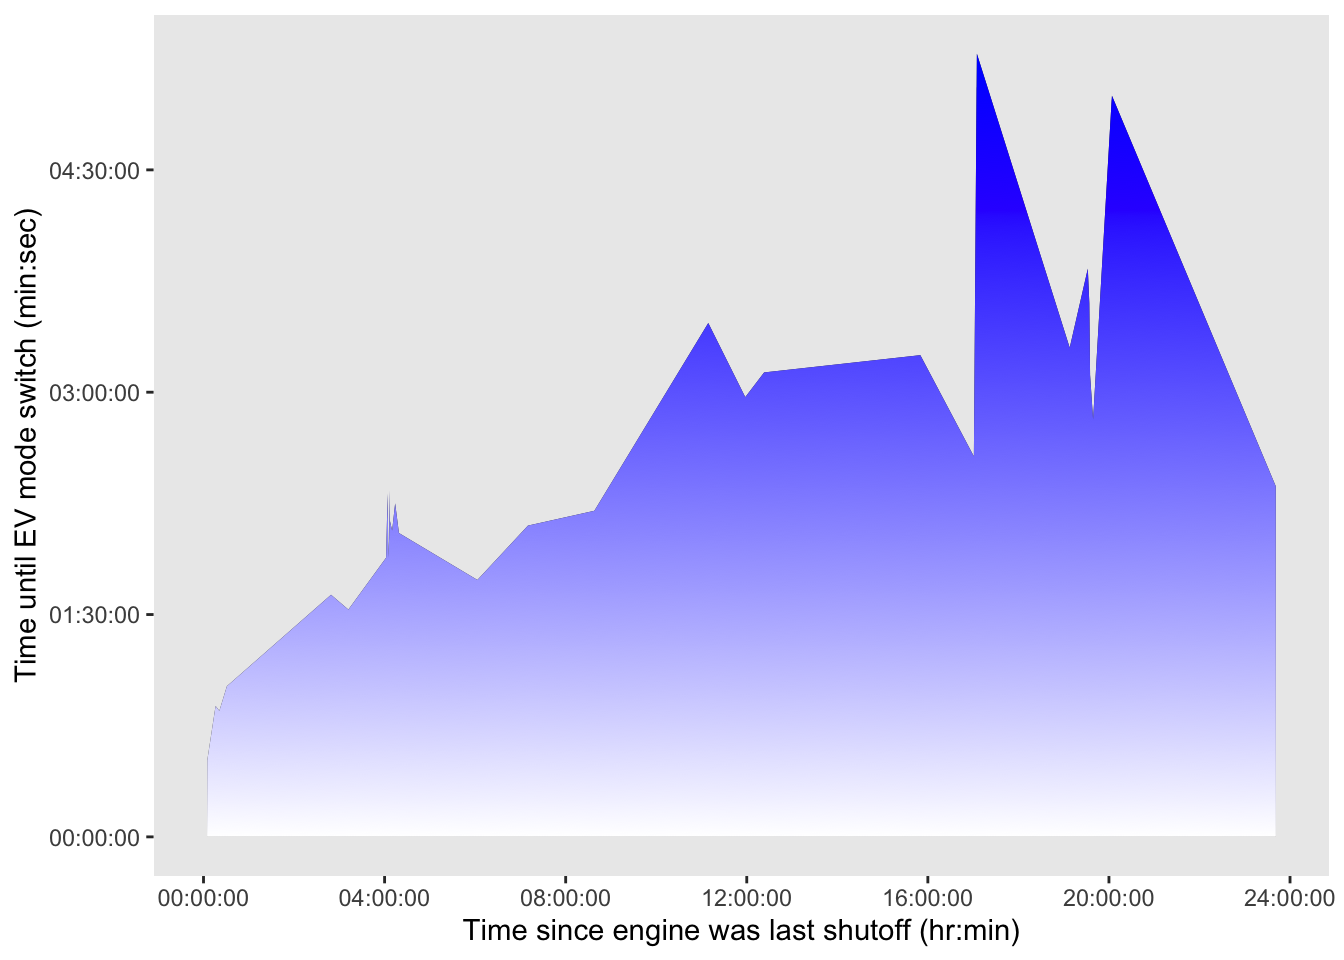
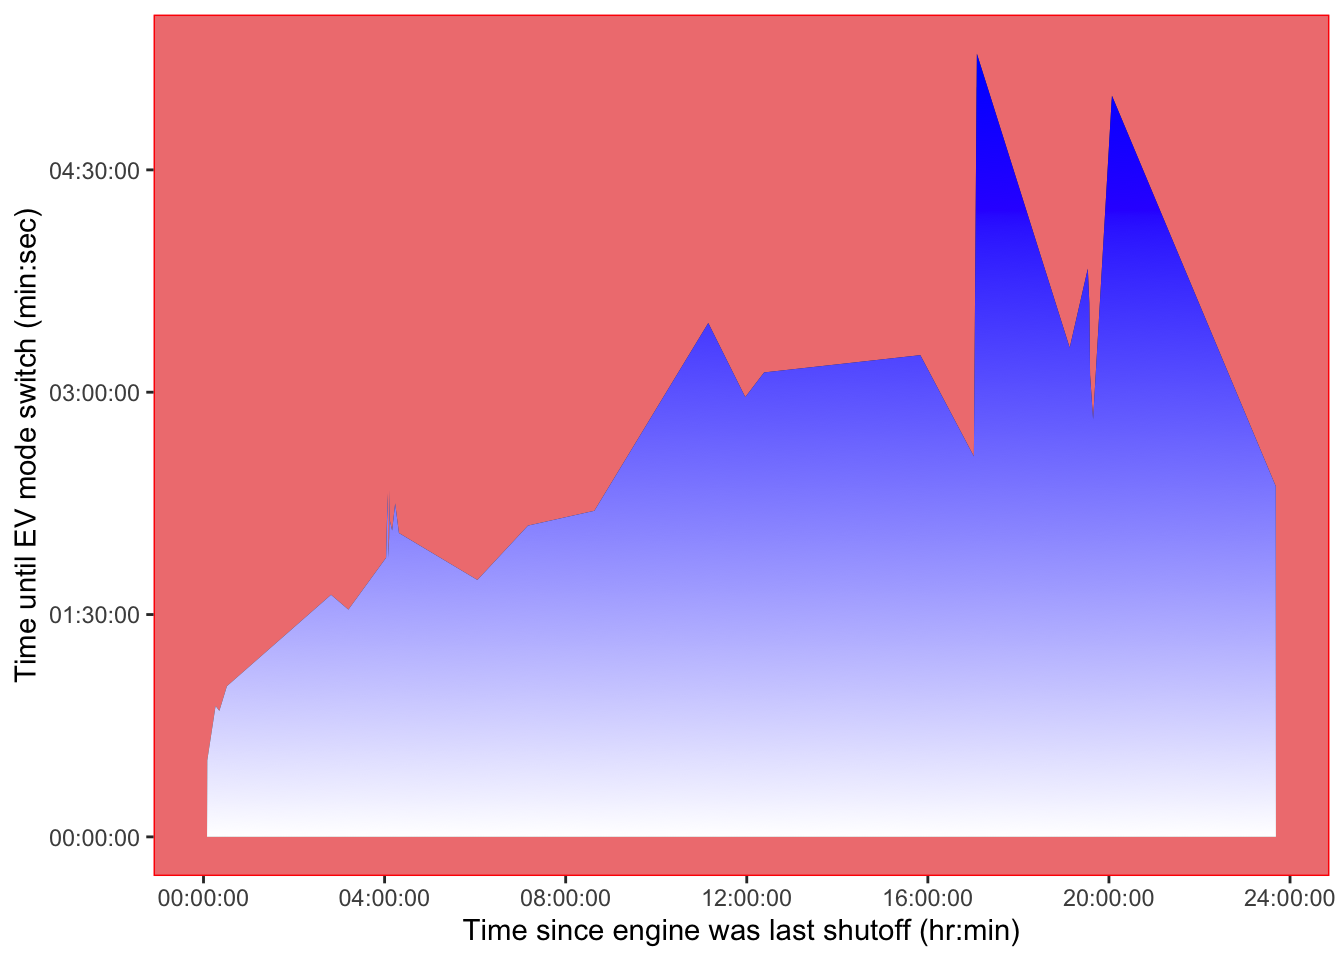
adding statistical critique table

diff --git a/ENVS-193DS_homework-03.html b/ENVS-193DS_homework-03.html
@@ -200,7 +200,7 @@ pre > code.sourceCode > span > a:first-child::before { text-decoration: underlin
 <span id="cb3-7"><a href="#cb3-7" aria-hidden="true" tabindex="-1"></a></span>
 <span id="cb3-8"><a href="#cb3-8" aria-hidden="true" tabindex="-1"></a>ev_table</span></code><button title="Copy to Clipboard" class="code-copy-button"><i class="bi"></i></button></pre></div>
 <div class="cell-output-display">
-<div class="tabwid"><style>.cl-dbd45cb2{}.cl-dbd0f0e0{font-family:'Helvetica';font-size:11pt;font-weight:normal;font-style:normal;text-decoration:none;color:rgba(0, 0, 0, 1.00);background-color:transparent;}.cl-dbd25b9c{margin:0;text-align:left;border-bottom: 0 solid rgba(0, 0, 0, 1.00);border-top: 0 solid rgba(0, 0, 0, 1.00);border-left: 0 solid rgba(0, 0, 0, 1.00);border-right: 0 solid rgba(0, 0, 0, 1.00);padding-bottom:5pt;padding-top:5pt;padding-left:5pt;padding-right:5pt;line-height: 1;background-color:transparent;}.cl-dbd25ba6{margin:0;text-align:right;border-bottom: 0 solid rgba(0, 0, 0, 1.00);border-top: 0 solid rgba(0, 0, 0, 1.00);border-left: 0 solid rgba(0, 0, 0, 1.00);border-right: 0 solid rgba(0, 0, 0, 1.00);padding-bottom:5pt;padding-top:5pt;padding-left:5pt;padding-right:5pt;line-height: 1;background-color:transparent;}.cl-dbd26952{width:0.75in;background-color:transparent;vertical-align: middle;border-bottom: 1.5pt solid rgba(102, 102, 102, 1.00);border-top: 1.5pt solid rgba(102, 102, 102, 1.00);border-left: 0 solid rgba(0, 0, 0, 1.00);border-right: 0 solid rgba(0, 0, 0, 1.00);margin-bottom:0;margin-top:0;margin-left:0;margin-right:0;}.cl-dbd2695c{width:0.75in;background-color:transparent;vertical-align: middle;border-bottom: 1.5pt solid rgba(102, 102, 102, 1.00);border-top: 1.5pt solid rgba(102, 102, 102, 1.00);border-left: 0 solid rgba(0, 0, 0, 1.00);border-right: 0 solid rgba(0, 0, 0, 1.00);margin-bottom:0;margin-top:0;margin-left:0;margin-right:0;}.cl-dbd2695d{width:0.75in;background-color:transparent;vertical-align: middle;border-bottom: 0 solid rgba(0, 0, 0, 1.00);border-top: 0 solid rgba(0, 0, 0, 1.00);border-left: 0 solid rgba(0, 0, 0, 1.00);border-right: 0 solid rgba(0, 0, 0, 1.00);margin-bottom:0;margin-top:0;margin-left:0;margin-right:0;}.cl-dbd2695e{width:0.75in;background-color:transparent;vertical-align: middle;border-bottom: 0 solid rgba(0, 0, 0, 1.00);border-top: 0 solid rgba(0, 0, 0, 1.00);border-left: 0 solid rgba(0, 0, 0, 1.00);border-right: 0 solid rgba(0, 0, 0, 1.00);margin-bottom:0;margin-top:0;margin-left:0;margin-right:0;}.cl-dbd26966{width:0.75in;background-color:transparent;vertical-align: middle;border-bottom: 1.5pt solid rgba(102, 102, 102, 1.00);border-top: 0 solid rgba(0, 0, 0, 1.00);border-left: 0 solid rgba(0, 0, 0, 1.00);border-right: 0 solid rgba(0, 0, 0, 1.00);margin-bottom:0;margin-top:0;margin-left:0;margin-right:0;}.cl-dbd26967{width:0.75in;background-color:transparent;vertical-align: middle;border-bottom: 1.5pt solid rgba(102, 102, 102, 1.00);border-top: 0 solid rgba(0, 0, 0, 1.00);border-left: 0 solid rgba(0, 0, 0, 1.00);border-right: 0 solid rgba(0, 0, 0, 1.00);margin-bottom:0;margin-top:0;margin-left:0;margin-right:0;}</style><table data-quarto-disable-processing="true" class="cl-dbd45cb2"><thead><tr style="overflow-wrap:break-word;"><th class="cl-dbd26952"><p class="cl-dbd25b9c"><span class="cl-dbd0f0e0">Presence_of_the_Sun</span></p></th><th class="cl-dbd2695c"><p class="cl-dbd25ba6"><span class="cl-dbd0f0e0">EV_switch_time</span></p></th></tr></thead><tbody><tr style="overflow-wrap:break-word;"><td class="cl-dbd2695d"><p class="cl-dbd25b9c"><span class="cl-dbd0f0e0">Yes</span></p></td><td class="cl-dbd2695e"><p class="cl-dbd25ba6"><span class="cl-dbd0f0e0">02:06:00</span></p></td></tr><tr style="overflow-wrap:break-word;"><td class="cl-dbd2695d"><p class="cl-dbd25b9c"><span class="cl-dbd0f0e0">No</span></p></td><td class="cl-dbd2695e"><p class="cl-dbd25ba6"><span class="cl-dbd0f0e0">03:08:00</span></p></td></tr><tr style="overflow-wrap:break-word;"><td class="cl-dbd2695d"><p class="cl-dbd25b9c"><span class="cl-dbd0f0e0">Yes</span></p></td><td class="cl-dbd2695e"><p class="cl-dbd25ba6"><span class="cl-dbd0f0e0">02:20:00</span></p></td></tr><tr style="overflow-wrap:break-word;"><td class="cl-dbd2695d"><p class="cl-dbd25b9c"><span class="cl-dbd0f0e0">Yes</span></p></td><td class="cl-dbd2695e"><p class="cl-dbd25ba6"><span class="cl-dbd0f0e0">01:01:00</span></p></td></tr><tr style="overflow-wrap:break-word;"><td class="cl-dbd2695d"><p class="cl-dbd25b9c"><span class="cl-dbd0f0e0">Yes</span></p></td><td class="cl-dbd2695e"><p class="cl-dbd25ba6"><span class="cl-dbd0f0e0">00:31:00</span></p></td></tr><tr style="overflow-wrap:break-word;"><td class="cl-dbd2695d"><p class="cl-dbd25b9c"><span class="cl-dbd0f0e0">No</span></p></td><td class="cl-dbd2695e"><p class="cl-dbd25ba6"><span class="cl-dbd0f0e0">03:15:00</span></p></td></tr><tr style="overflow-wrap:break-word;"><td class="cl-dbd2695d"><p class="cl-dbd25b9c"><span class="cl-dbd0f0e0">Yes</span></p></td><td class="cl-dbd2695e"><p class="cl-dbd25ba6"><span class="cl-dbd0f0e0">02:19:00</span></p></td></tr><tr style="overflow-wrap:break-word;"><td class="cl-dbd2695d"><p class="cl-dbd25b9c"><span class="cl-dbd0f0e0">No</span></p></td><td class="cl-dbd2695e"><p class="cl-dbd25ba6"><span class="cl-dbd0f0e0">03:50:00</span></p></td></tr><tr style="overflow-wrap:break-word;"><td class="cl-dbd2695d"><p class="cl-dbd25b9c"><span class="cl-dbd0f0e0">Yes</span></p></td><td class="cl-dbd2695e"><p class="cl-dbd25ba6"><span class="cl-dbd0f0e0">02:04:00</span></p></td></tr><tr style="overflow-wrap:break-word;"><td class="cl-dbd2695d"><p class="cl-dbd25b9c"><span class="cl-dbd0f0e0">Yes</span></p></td><td class="cl-dbd2695e"><p class="cl-dbd25ba6"><span class="cl-dbd0f0e0">01:44:00</span></p></td></tr><tr style="overflow-wrap:break-word;"><td class="cl-dbd2695d"><p class="cl-dbd25b9c"><span class="cl-dbd0f0e0">No</span></p></td><td class="cl-dbd2695e"><p class="cl-dbd25ba6"><span class="cl-dbd0f0e0">03:28:00</span></p></td></tr><tr style="overflow-wrap:break-word;"><td class="cl-dbd2695d"><p class="cl-dbd25b9c"><span class="cl-dbd0f0e0">No</span></p></td><td class="cl-dbd2695e"><p class="cl-dbd25ba6"><span class="cl-dbd0f0e0">05:17:00</span></p></td></tr><tr style="overflow-wrap:break-word;"><td class="cl-dbd2695d"><p class="cl-dbd25b9c"><span class="cl-dbd0f0e0">Yes</span></p></td><td class="cl-dbd2695e"><p class="cl-dbd25ba6"><span class="cl-dbd0f0e0">02:08:00</span></p></td></tr><tr style="overflow-wrap:break-word;"><td class="cl-dbd2695d"><p class="cl-dbd25b9c"><span class="cl-dbd0f0e0">Yes</span></p></td><td class="cl-dbd2695e"><p class="cl-dbd25ba6"><span class="cl-dbd0f0e0">01:32:00</span></p></td></tr><tr style="overflow-wrap:break-word;"><td class="cl-dbd2695d"><p class="cl-dbd25b9c"><span class="cl-dbd0f0e0">No</span></p></td><td class="cl-dbd2695e"><p class="cl-dbd25ba6"><span class="cl-dbd0f0e0">02:58:00</span></p></td></tr><tr style="overflow-wrap:break-word;"><td class="cl-dbd2695d"><p class="cl-dbd25b9c"><span class="cl-dbd0f0e0">No</span></p></td><td class="cl-dbd2695e"><p class="cl-dbd25ba6"><span class="cl-dbd0f0e0">02:12:00</span></p></td></tr><tr style="overflow-wrap:break-word;"><td class="cl-dbd2695d"><p class="cl-dbd25b9c"><span class="cl-dbd0f0e0">Yes</span></p></td><td class="cl-dbd2695e"><p class="cl-dbd25ba6"><span class="cl-dbd0f0e0">01:53:00</span></p></td></tr><tr style="overflow-wrap:break-word;"><td class="cl-dbd2695d"><p class="cl-dbd25b9c"><span class="cl-dbd0f0e0">No</span></p></td><td class="cl-dbd2695e"><p class="cl-dbd25ba6"><span class="cl-dbd0f0e0">03:36:00</span></p></td></tr><tr style="overflow-wrap:break-word;"><td class="cl-dbd2695d"><p class="cl-dbd25b9c"><span class="cl-dbd0f0e0">No</span></p></td><td class="cl-dbd2695e"><p class="cl-dbd25ba6"><span class="cl-dbd0f0e0">03:18:00</span></p></td></tr><tr style="overflow-wrap:break-word;"><td class="cl-dbd2695d"><p class="cl-dbd25b9c"><span class="cl-dbd0f0e0">Yes</span></p></td><td class="cl-dbd2695e"><p class="cl-dbd25ba6"><span class="cl-dbd0f0e0">01:53:00</span></p></td></tr><tr style="overflow-wrap:break-word;"><td class="cl-dbd2695d"><p class="cl-dbd25b9c"><span class="cl-dbd0f0e0">No</span></p></td><td class="cl-dbd2695e"><p class="cl-dbd25ba6"><span class="cl-dbd0f0e0">03:07:00</span></p></td></tr><tr style="overflow-wrap:break-word;"><td class="cl-dbd2695d"><p class="cl-dbd25b9c"><span class="cl-dbd0f0e0">Yes</span></p></td><td class="cl-dbd2695e"><p class="cl-dbd25ba6"><span class="cl-dbd0f0e0">02:01:00</span></p></td></tr><tr style="overflow-wrap:break-word;"><td class="cl-dbd2695d"><p class="cl-dbd25b9c"><span class="cl-dbd0f0e0">Yes</span></p></td><td class="cl-dbd2695e"><p class="cl-dbd25ba6"><span class="cl-dbd0f0e0">00:51:00</span></p></td></tr><tr style="overflow-wrap:break-word;"><td class="cl-dbd2695d"><p class="cl-dbd25b9c"><span class="cl-dbd0f0e0">No</span></p></td><td class="cl-dbd2695e"><p class="cl-dbd25ba6"><span class="cl-dbd0f0e0">02:34:00</span></p></td></tr><tr style="overflow-wrap:break-word;"><td class="cl-dbd2695d"><p class="cl-dbd25b9c"><span class="cl-dbd0f0e0">No</span></p></td><td class="cl-dbd2695e"><p class="cl-dbd25ba6"><span class="cl-dbd0f0e0">02:49:00</span></p></td></tr><tr style="overflow-wrap:break-word;"><td class="cl-dbd2695d"><p class="cl-dbd25b9c"><span class="cl-dbd0f0e0">Yes</span></p></td><td class="cl-dbd2695e"><p class="cl-dbd25ba6"><span class="cl-dbd0f0e0">02:15:00</span></p></td></tr><tr style="overflow-wrap:break-word;"><td class="cl-dbd2695d"><p class="cl-dbd25b9c"><span class="cl-dbd0f0e0">Yes</span></p></td><td class="cl-dbd2695e"><p class="cl-dbd25ba6"><span class="cl-dbd0f0e0">02:22:00</span></p></td></tr><tr style="overflow-wrap:break-word;"><td class="cl-dbd2695d"><p class="cl-dbd25b9c"><span class="cl-dbd0f0e0">Yes</span></p></td><td class="cl-dbd2695e"><p class="cl-dbd25ba6"><span class="cl-dbd0f0e0">02:03:00</span></p></td></tr><tr style="overflow-wrap:break-word;"><td class="cl-dbd2695d"><p class="cl-dbd25b9c"><span class="cl-dbd0f0e0">Yes</span></p></td><td class="cl-dbd2695e"><p class="cl-dbd25ba6"><span class="cl-dbd0f0e0">01:38:00</span></p></td></tr><tr style="overflow-wrap:break-word;"><td class="cl-dbd2695d"><p class="cl-dbd25b9c"><span class="cl-dbd0f0e0">Yes</span></p></td><td class="cl-dbd2695e"><p class="cl-dbd25ba6"><span class="cl-dbd0f0e0">00:53:00</span></p></td></tr><tr style="overflow-wrap:break-word;"><td class="cl-dbd26966"><p class="cl-dbd25b9c"><span class="cl-dbd0f0e0">Yes</span></p></td><td class="cl-dbd26967"><p class="cl-dbd25ba6"><span class="cl-dbd0f0e0">05:00:00</span></p></td></tr></tbody></table></div>
+<div class="tabwid"><style>.cl-1531932e{}.cl-152e31b6{font-family:'Helvetica';font-size:11pt;font-weight:normal;font-style:normal;text-decoration:none;color:rgba(0, 0, 0, 1.00);background-color:transparent;}.cl-152f92f4{margin:0;text-align:left;border-bottom: 0 solid rgba(0, 0, 0, 1.00);border-top: 0 solid rgba(0, 0, 0, 1.00);border-left: 0 solid rgba(0, 0, 0, 1.00);border-right: 0 solid rgba(0, 0, 0, 1.00);padding-bottom:5pt;padding-top:5pt;padding-left:5pt;padding-right:5pt;line-height: 1;background-color:transparent;}.cl-152f92fe{margin:0;text-align:right;border-bottom: 0 solid rgba(0, 0, 0, 1.00);border-top: 0 solid rgba(0, 0, 0, 1.00);border-left: 0 solid rgba(0, 0, 0, 1.00);border-right: 0 solid rgba(0, 0, 0, 1.00);padding-bottom:5pt;padding-top:5pt;padding-left:5pt;padding-right:5pt;line-height: 1;background-color:transparent;}.cl-152fa096{width:0.75in;background-color:transparent;vertical-align: middle;border-bottom: 1.5pt solid rgba(102, 102, 102, 1.00);border-top: 1.5pt solid rgba(102, 102, 102, 1.00);border-left: 0 solid rgba(0, 0, 0, 1.00);border-right: 0 solid rgba(0, 0, 0, 1.00);margin-bottom:0;margin-top:0;margin-left:0;margin-right:0;}.cl-152fa0a0{width:0.75in;background-color:transparent;vertical-align: middle;border-bottom: 1.5pt solid rgba(102, 102, 102, 1.00);border-top: 1.5pt solid rgba(102, 102, 102, 1.00);border-left: 0 solid rgba(0, 0, 0, 1.00);border-right: 0 solid rgba(0, 0, 0, 1.00);margin-bottom:0;margin-top:0;margin-left:0;margin-right:0;}.cl-152fa0a1{width:0.75in;background-color:transparent;vertical-align: middle;border-bottom: 0 solid rgba(0, 0, 0, 1.00);border-top: 0 solid rgba(0, 0, 0, 1.00);border-left: 0 solid rgba(0, 0, 0, 1.00);border-right: 0 solid rgba(0, 0, 0, 1.00);margin-bottom:0;margin-top:0;margin-left:0;margin-right:0;}.cl-152fa0aa{width:0.75in;background-color:transparent;vertical-align: middle;border-bottom: 0 solid rgba(0, 0, 0, 1.00);border-top: 0 solid rgba(0, 0, 0, 1.00);border-left: 0 solid rgba(0, 0, 0, 1.00);border-right: 0 solid rgba(0, 0, 0, 1.00);margin-bottom:0;margin-top:0;margin-left:0;margin-right:0;}.cl-152fa0ab{width:0.75in;background-color:transparent;vertical-align: middle;border-bottom: 1.5pt solid rgba(102, 102, 102, 1.00);border-top: 0 solid rgba(0, 0, 0, 1.00);border-left: 0 solid rgba(0, 0, 0, 1.00);border-right: 0 solid rgba(0, 0, 0, 1.00);margin-bottom:0;margin-top:0;margin-left:0;margin-right:0;}.cl-152fa0ac{width:0.75in;background-color:transparent;vertical-align: middle;border-bottom: 1.5pt solid rgba(102, 102, 102, 1.00);border-top: 0 solid rgba(0, 0, 0, 1.00);border-left: 0 solid rgba(0, 0, 0, 1.00);border-right: 0 solid rgba(0, 0, 0, 1.00);margin-bottom:0;margin-top:0;margin-left:0;margin-right:0;}</style><table data-quarto-disable-processing="true" class="cl-1531932e"><thead><tr style="overflow-wrap:break-word;"><th class="cl-152fa096"><p class="cl-152f92f4"><span class="cl-152e31b6">Presence_of_the_Sun</span></p></th><th class="cl-152fa0a0"><p class="cl-152f92fe"><span class="cl-152e31b6">EV_switch_time</span></p></th></tr></thead><tbody><tr style="overflow-wrap:break-word;"><td class="cl-152fa0a1"><p class="cl-152f92f4"><span class="cl-152e31b6">Yes</span></p></td><td class="cl-152fa0aa"><p class="cl-152f92fe"><span class="cl-152e31b6">02:06:00</span></p></td></tr><tr style="overflow-wrap:break-word;"><td class="cl-152fa0a1"><p class="cl-152f92f4"><span class="cl-152e31b6">No</span></p></td><td class="cl-152fa0aa"><p class="cl-152f92fe"><span class="cl-152e31b6">03:08:00</span></p></td></tr><tr style="overflow-wrap:break-word;"><td class="cl-152fa0a1"><p class="cl-152f92f4"><span class="cl-152e31b6">Yes</span></p></td><td class="cl-152fa0aa"><p class="cl-152f92fe"><span class="cl-152e31b6">02:20:00</span></p></td></tr><tr style="overflow-wrap:break-word;"><td class="cl-152fa0a1"><p class="cl-152f92f4"><span class="cl-152e31b6">Yes</span></p></td><td class="cl-152fa0aa"><p class="cl-152f92fe"><span class="cl-152e31b6">01:01:00</span></p></td></tr><tr style="overflow-wrap:break-word;"><td class="cl-152fa0a1"><p class="cl-152f92f4"><span class="cl-152e31b6">Yes</span></p></td><td class="cl-152fa0aa"><p class="cl-152f92fe"><span class="cl-152e31b6">00:31:00</span></p></td></tr><tr style="overflow-wrap:break-word;"><td class="cl-152fa0a1"><p class="cl-152f92f4"><span class="cl-152e31b6">No</span></p></td><td class="cl-152fa0aa"><p class="cl-152f92fe"><span class="cl-152e31b6">03:15:00</span></p></td></tr><tr style="overflow-wrap:break-word;"><td class="cl-152fa0a1"><p class="cl-152f92f4"><span class="cl-152e31b6">Yes</span></p></td><td class="cl-152fa0aa"><p class="cl-152f92fe"><span class="cl-152e31b6">02:19:00</span></p></td></tr><tr style="overflow-wrap:break-word;"><td class="cl-152fa0a1"><p class="cl-152f92f4"><span class="cl-152e31b6">No</span></p></td><td class="cl-152fa0aa"><p class="cl-152f92fe"><span class="cl-152e31b6">03:50:00</span></p></td></tr><tr style="overflow-wrap:break-word;"><td class="cl-152fa0a1"><p class="cl-152f92f4"><span class="cl-152e31b6">Yes</span></p></td><td class="cl-152fa0aa"><p class="cl-152f92fe"><span class="cl-152e31b6">02:04:00</span></p></td></tr><tr style="overflow-wrap:break-word;"><td class="cl-152fa0a1"><p class="cl-152f92f4"><span class="cl-152e31b6">Yes</span></p></td><td class="cl-152fa0aa"><p class="cl-152f92fe"><span class="cl-152e31b6">01:44:00</span></p></td></tr><tr style="overflow-wrap:break-word;"><td class="cl-152fa0a1"><p class="cl-152f92f4"><span class="cl-152e31b6">No</span></p></td><td class="cl-152fa0aa"><p class="cl-152f92fe"><span class="cl-152e31b6">03:28:00</span></p></td></tr><tr style="overflow-wrap:break-word;"><td class="cl-152fa0a1"><p class="cl-152f92f4"><span class="cl-152e31b6">No</span></p></td><td class="cl-152fa0aa"><p class="cl-152f92fe"><span class="cl-152e31b6">05:17:00</span></p></td></tr><tr style="overflow-wrap:break-word;"><td class="cl-152fa0a1"><p class="cl-152f92f4"><span class="cl-152e31b6">Yes</span></p></td><td class="cl-152fa0aa"><p class="cl-152f92fe"><span class="cl-152e31b6">02:08:00</span></p></td></tr><tr style="overflow-wrap:break-word;"><td class="cl-152fa0a1"><p class="cl-152f92f4"><span class="cl-152e31b6">Yes</span></p></td><td class="cl-152fa0aa"><p class="cl-152f92fe"><span class="cl-152e31b6">01:32:00</span></p></td></tr><tr style="overflow-wrap:break-word;"><td class="cl-152fa0a1"><p class="cl-152f92f4"><span class="cl-152e31b6">No</span></p></td><td class="cl-152fa0aa"><p class="cl-152f92fe"><span class="cl-152e31b6">02:58:00</span></p></td></tr><tr style="overflow-wrap:break-word;"><td class="cl-152fa0a1"><p class="cl-152f92f4"><span class="cl-152e31b6">No</span></p></td><td class="cl-152fa0aa"><p class="cl-152f92fe"><span class="cl-152e31b6">02:12:00</span></p></td></tr><tr style="overflow-wrap:break-word;"><td class="cl-152fa0a1"><p class="cl-152f92f4"><span class="cl-152e31b6">Yes</span></p></td><td class="cl-152fa0aa"><p class="cl-152f92fe"><span class="cl-152e31b6">01:53:00</span></p></td></tr><tr style="overflow-wrap:break-word;"><td class="cl-152fa0a1"><p class="cl-152f92f4"><span class="cl-152e31b6">No</span></p></td><td class="cl-152fa0aa"><p class="cl-152f92fe"><span class="cl-152e31b6">03:36:00</span></p></td></tr><tr style="overflow-wrap:break-word;"><td class="cl-152fa0a1"><p class="cl-152f92f4"><span class="cl-152e31b6">No</span></p></td><td class="cl-152fa0aa"><p class="cl-152f92fe"><span class="cl-152e31b6">03:18:00</span></p></td></tr><tr style="overflow-wrap:break-word;"><td class="cl-152fa0a1"><p class="cl-152f92f4"><span class="cl-152e31b6">Yes</span></p></td><td class="cl-152fa0aa"><p class="cl-152f92fe"><span class="cl-152e31b6">01:53:00</span></p></td></tr><tr style="overflow-wrap:break-word;"><td class="cl-152fa0a1"><p class="cl-152f92f4"><span class="cl-152e31b6">No</span></p></td><td class="cl-152fa0aa"><p class="cl-152f92fe"><span class="cl-152e31b6">03:07:00</span></p></td></tr><tr style="overflow-wrap:break-word;"><td class="cl-152fa0a1"><p class="cl-152f92f4"><span class="cl-152e31b6">Yes</span></p></td><td class="cl-152fa0aa"><p class="cl-152f92fe"><span class="cl-152e31b6">02:01:00</span></p></td></tr><tr style="overflow-wrap:break-word;"><td class="cl-152fa0a1"><p class="cl-152f92f4"><span class="cl-152e31b6">Yes</span></p></td><td class="cl-152fa0aa"><p class="cl-152f92fe"><span class="cl-152e31b6">00:51:00</span></p></td></tr><tr style="overflow-wrap:break-word;"><td class="cl-152fa0a1"><p class="cl-152f92f4"><span class="cl-152e31b6">No</span></p></td><td class="cl-152fa0aa"><p class="cl-152f92fe"><span class="cl-152e31b6">02:34:00</span></p></td></tr><tr style="overflow-wrap:break-word;"><td class="cl-152fa0a1"><p class="cl-152f92f4"><span class="cl-152e31b6">No</span></p></td><td class="cl-152fa0aa"><p class="cl-152f92fe"><span class="cl-152e31b6">02:49:00</span></p></td></tr><tr style="overflow-wrap:break-word;"><td class="cl-152fa0a1"><p class="cl-152f92f4"><span class="cl-152e31b6">Yes</span></p></td><td class="cl-152fa0aa"><p class="cl-152f92fe"><span class="cl-152e31b6">02:15:00</span></p></td></tr><tr style="overflow-wrap:break-word;"><td class="cl-152fa0a1"><p class="cl-152f92f4"><span class="cl-152e31b6">Yes</span></p></td><td class="cl-152fa0aa"><p class="cl-152f92fe"><span class="cl-152e31b6">02:22:00</span></p></td></tr><tr style="overflow-wrap:break-word;"><td class="cl-152fa0a1"><p class="cl-152f92f4"><span class="cl-152e31b6">Yes</span></p></td><td class="cl-152fa0aa"><p class="cl-152f92fe"><span class="cl-152e31b6">02:03:00</span></p></td></tr><tr style="overflow-wrap:break-word;"><td class="cl-152fa0a1"><p class="cl-152f92f4"><span class="cl-152e31b6">Yes</span></p></td><td class="cl-152fa0aa"><p class="cl-152f92fe"><span class="cl-152e31b6">01:38:00</span></p></td></tr><tr style="overflow-wrap:break-word;"><td class="cl-152fa0a1"><p class="cl-152f92f4"><span class="cl-152e31b6">Yes</span></p></td><td class="cl-152fa0aa"><p class="cl-152f92fe"><span class="cl-152e31b6">00:53:00</span></p></td></tr><tr style="overflow-wrap:break-word;"><td class="cl-152fa0ab"><p class="cl-152f92f4"><span class="cl-152e31b6">Yes</span></p></td><td class="cl-152fa0ac"><p class="cl-152f92fe"><span class="cl-152e31b6">05:00:00</span></p></td></tr></tbody></table></div>
 </div>
 </div>
 </section>
@@ -227,7 +227,8 @@ pre > code.sourceCode > span > a:first-child::before { text-decoration: underlin
 <span id="cb4-8"><a href="#cb4-8" aria-hidden="true" tabindex="-1"></a>  <span class="fu">labs</span>(<span class="at">x =</span> <span class="st">"Time since engine was last shutoff (hr:min)"</span>,<span class="co"># relabeling x-axis</span></span>
 <span id="cb4-9"><a href="#cb4-9" aria-hidden="true" tabindex="-1"></a>      <span class="at">y =</span> <span class="st">"Time until EV mode switch (min:sec)"</span>)<span class="sc">+</span> <span class="co">#relabeling y-axis</span></span>
 <span id="cb4-10"><a href="#cb4-10" aria-hidden="true" tabindex="-1"></a>  <span class="fu">theme</span>(<span class="at">panel.grid.major =</span> <span class="fu">element_blank</span>(), <span class="co"># remove gridlines </span></span>
-<span id="cb4-11"><a href="#cb4-11" aria-hidden="true" tabindex="-1"></a>        <span class="at">panel.grid.minor =</span> <span class="fu">element_blank</span>())</span></code><button title="Copy to Clipboard" class="code-copy-button"><i class="bi"></i></button></pre></div>
+<span id="cb4-11"><a href="#cb4-11" aria-hidden="true" tabindex="-1"></a>        <span class="at">panel.grid.minor =</span> <span class="fu">element_blank</span>(),</span>
+<span id="cb4-12"><a href="#cb4-12" aria-hidden="true" tabindex="-1"></a>        <span class="at">panel.background =</span> <span class="fu">element_rect</span>(<span class="at">fill =</span> <span class="st">'lightcoral'</span>, <span class="at">colour =</span> <span class="st">'red'</span>))</span></code><button title="Copy to Clipboard" class="code-copy-button"><i class="bi"></i></button></pre></div>
 <div class="cell-output-display">
 <div>
 <figure class="figure">
@@ -239,7 +240,12 @@ pre > code.sourceCode > span > a:first-child::before { text-decoration: underlin
 </section>
 <section id="d.-artist-statement" class="level2">
 <h2 class="anchored" data-anchor-id="d.-artist-statement">d.&nbsp;Artist Statement</h2>
-<p>Content: I am showing that the time the engine takes to switch to EV mode increases as the time the engine was last shutoff increases and the time of day increases. Influences: The gradient used in Trends in Global Methane Emissions on the Environmental Graphiti page influenced my choice in using the gradient color to represent a time of day when the Sun is not out. Form of the work: I chose to use code to make my draft. Process: I took code from homework 2, updated it with my new data, and played around with the gradient coloring.</p>
+<ul>
+<li><p>Content: I am showing that the time the engine takes to switch to EV mode increases as the time the engine was last shutoff increases and the time of day increases.</p></li>
+<li><p>Influences: The gradient used in Trends in Global Methane Emissions on the Environmental Graphiti page influenced my choice in using the gradient color to represent a time of day when the Sun is not out.</p></li>
+<li><p>Form of the work: I chose to use code to make my draft.</p></li>
+<li><p>Process: I took code from homework 2, updated it with my new data, and played around with the gradient coloring.</p></li>
+</ul>
 </section>
 </section>
 <section id="problem-3-statistical-critique" class="level1">
@@ -247,6 +253,12 @@ pre > code.sourceCode > span > a:first-child::before { text-decoration: underlin
 <section id="a.-revist" class="level2">
 <h2 class="anchored" data-anchor-id="a.-revist">a. Revist</h2>
 <p>ANOVA and Least Significant Difference are the tests included in this paper. The response variables are alkaloid content and growth parameters (height, thousand-seed weight, etc.). The predictor variable is nitrogen dosage.</p>
+<div class="quarto-figure quarto-figure-center">
+<figure class="figure">
+<p><img src="./Users/admin/Documents/github/ENVS-193DS_homework-03/data/stat_crit.png" class="img-fluid figure-img"></p>
+<figcaption>Data</figcaption>
+</figure>
+</div>
 </section>
 <section id="b.-visual-clarity" class="level2">
 <h2 class="anchored" data-anchor-id="b.-visual-clarity">b. Visual clarity</h2>
